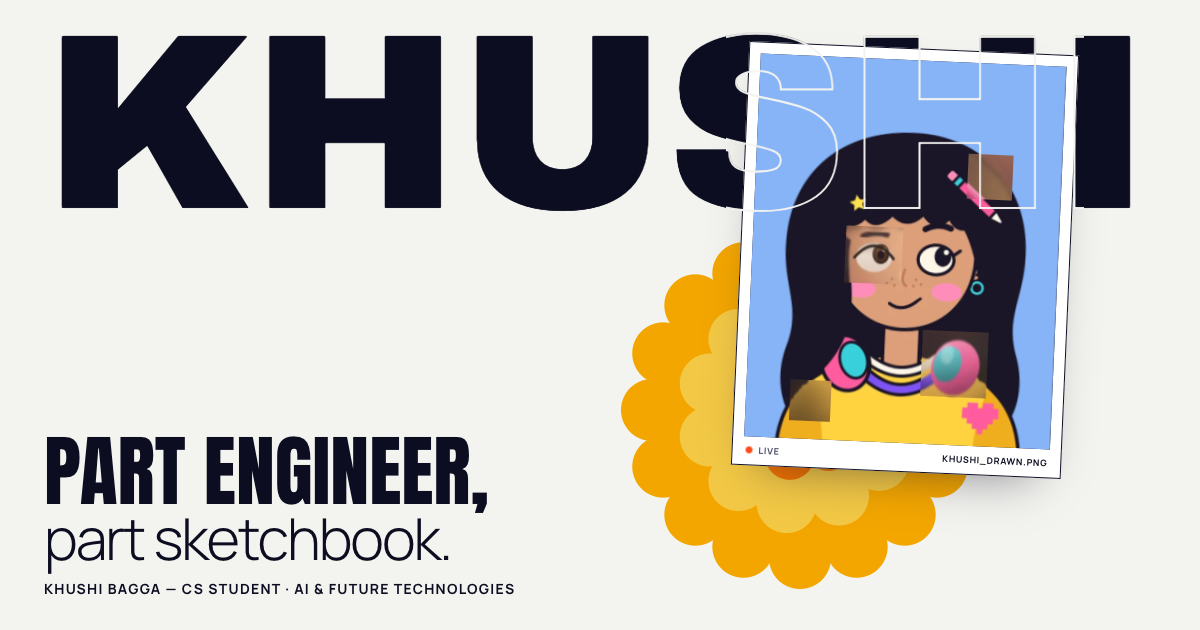
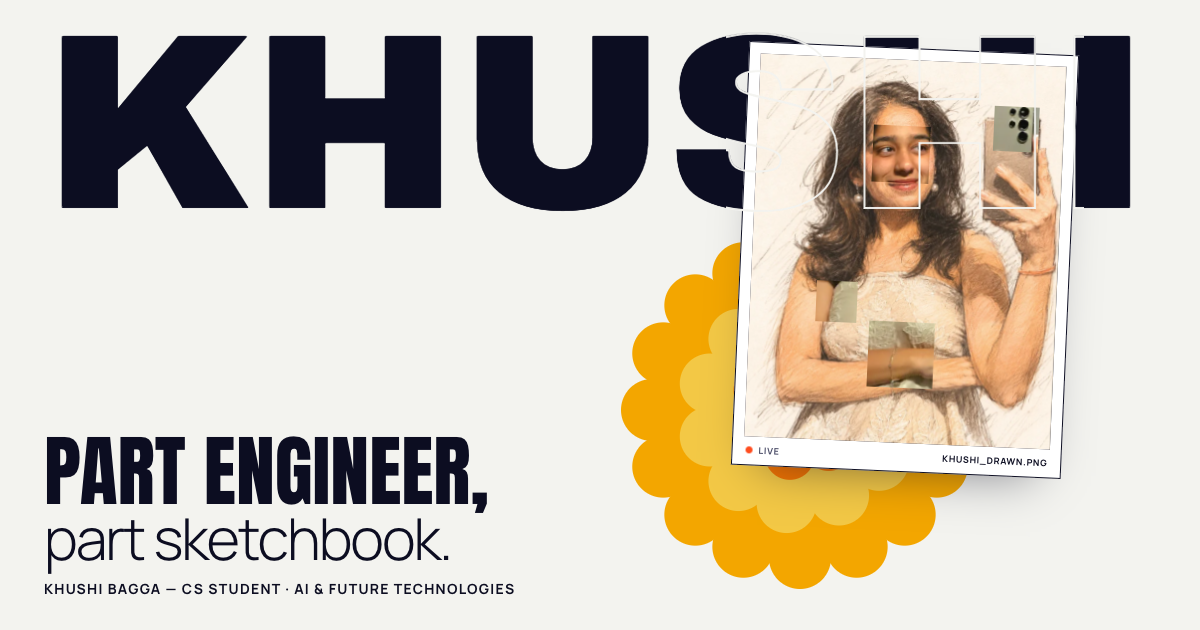
Portrait: the real photo and its sketch, on one 4:5 canvas
Both are cropped to 1600 x 2000 and lined up on the face, so the collage's
windows show the same spot in each. The windows are moved to suit the new
picture; the collage itself is unchanged. Share image regenerated.

Changed region(s): [[0.6167, 0.0603, 0.8942, 0.7238]]

diff --git a/src/data/collage.ts b/src/data/collage.ts
@@ -4,7 +4,7 @@
 // SWAP IN YOUR OWN ART:
 //   1. Put your photo at        src/assets/collage/photo.jpg
 //   2. Put your drawing at      src/assets/collage/illustration.png
-//      (same canvas size as the photo, ideally traced over it, transparent background)
+//      (same canvas size as the photo, 1600 × 2000, lined up so the face sits in the same place)
 //   3. Nudge the holes below so they sit over your eyes, hands, etc.
 //
 // Coordinates use an 800 × 1000 grid (4:5), whatever your image resolution is.
@@ -18,12 +18,12 @@ export type Hole = { cx: number; cy: number; s: number };
 export const collage = {
   photo: {
     src: photo,
-    alt: 'A photo of Khushi (placeholder)',
+    alt: 'Khushi taking a mirror photo, smiling and looking to one side',
     file: 'khushi_real.jpg',
   },
   illustration: {
     src: illustration,
-    alt: 'A drawing of Khushi, traced over the same photo (placeholder)',
+    alt: 'A pencil sketch of Khushi, drawn from the same photo',
     file: 'khushi_drawn.png',
   },
 
@@ -32,18 +32,18 @@ export const collage = {
 
   // Act 1: holes cut into the drawing. You see the photo through them.
   photoWindows: [
-    { cx: 318, cy: 514, s: 150 }, // left eye
-    { cx: 612, cy: 296, s: 118 }, // pencil + background
-    { cx: 540, cy: 790, s: 172 }, // headphones
-    { cx: 170, cy: 900, s: 108 }, // shoulder
+    { cx: 378, cy: 248, s: 150 }, // eyes
+    { cx: 676, cy: 170, s: 118 }, // phone cameras
+    { cx: 400, cy: 770, s: 172 }, // folded arm + bracelet
+    { cx: 228, cy: 640, s: 108 }, // arm
   ] satisfies Hole[],
 
   // Act 3: the photo has taken over, and new windows show the drawing.
   drawingWindows: [
-    { cx: 484, cy: 508, s: 142 }, // right eye
-    { cx: 262, cy: 334, s: 112 }, // star clip
-    { cx: 258, cy: 792, s: 160 }, // headphones
-    { cx: 614, cy: 912, s: 118 }, // pixel heart
+    { cx: 400, cy: 335, s: 142 }, // smile + earrings
+    { cx: 300, cy: 140, s: 112 }, // hair
+    { cx: 330, cy: 630, s: 160 }, // embroidered leaves
+    { cx: 690, cy: 480, s: 118 }, // wrist + thread bracelet
   ] satisfies Hole[],
 
   // The square that follows your cursor on desktop.
